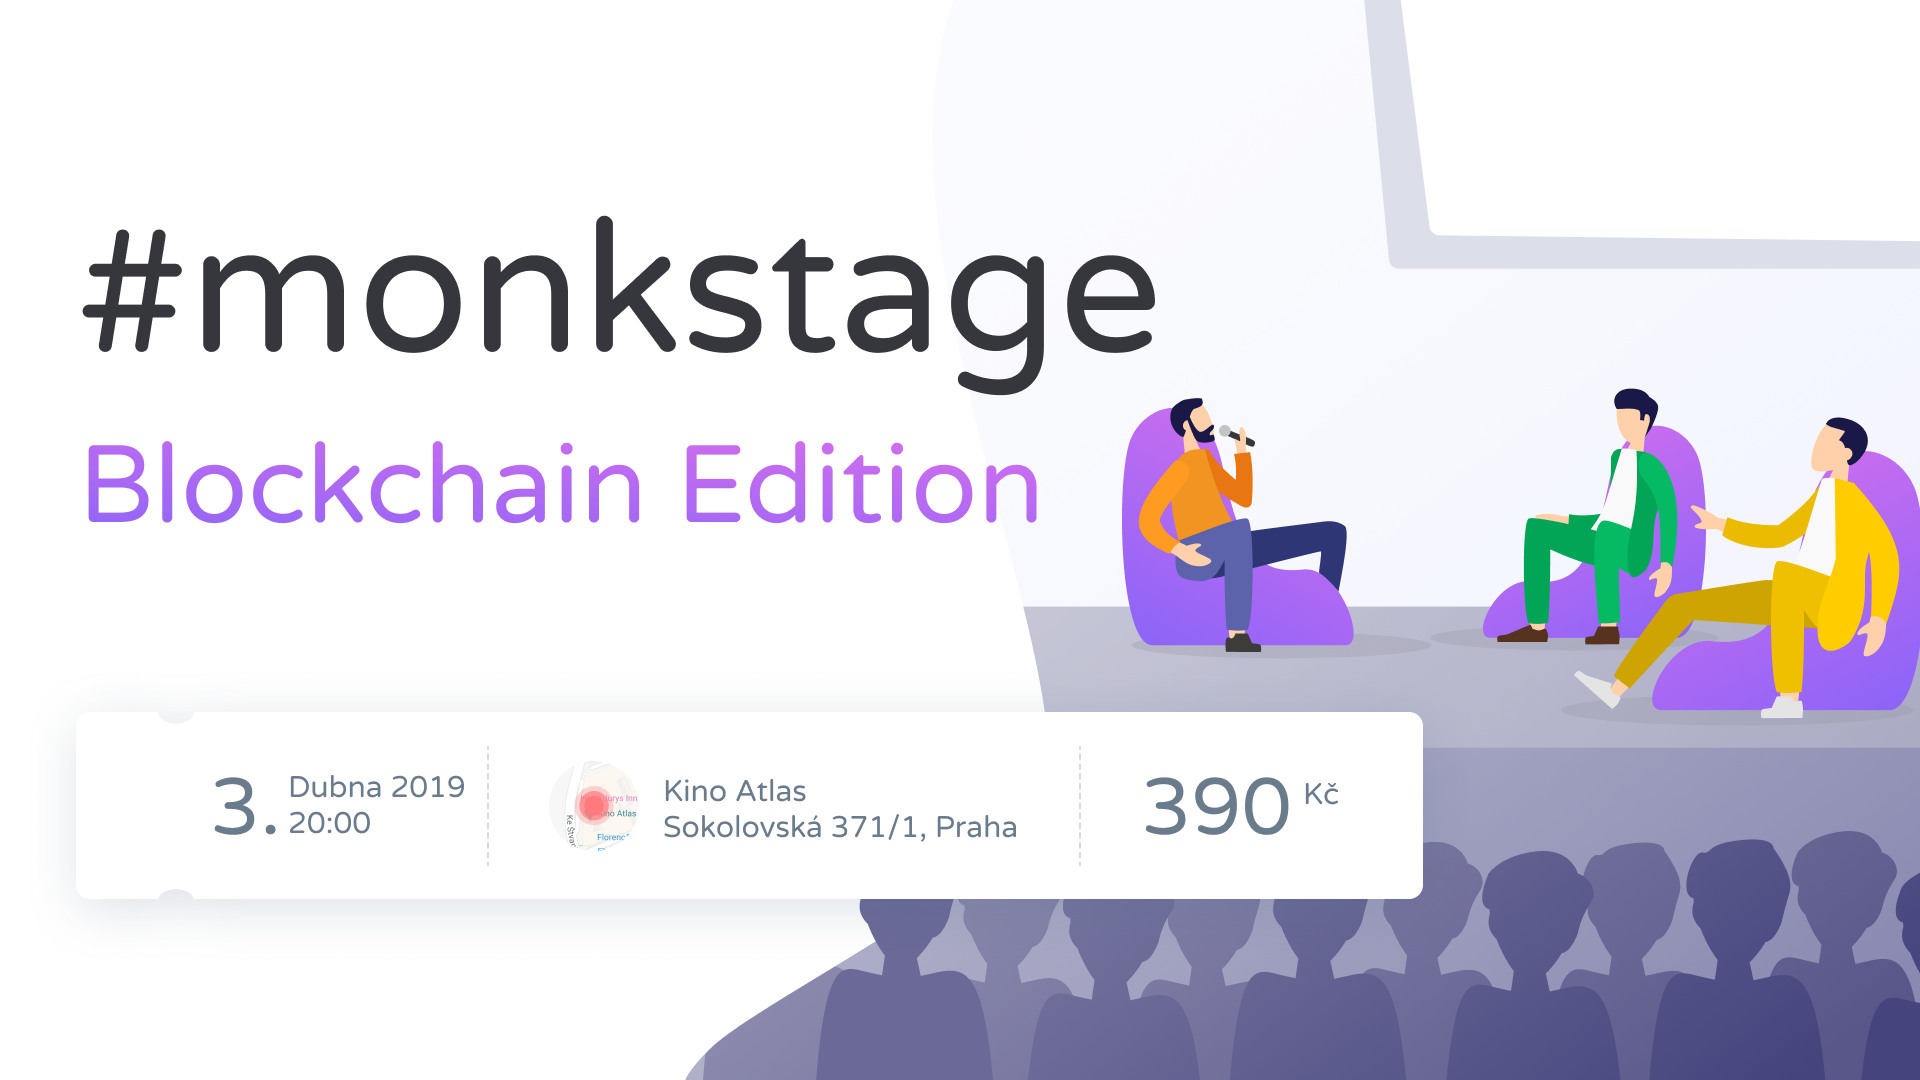
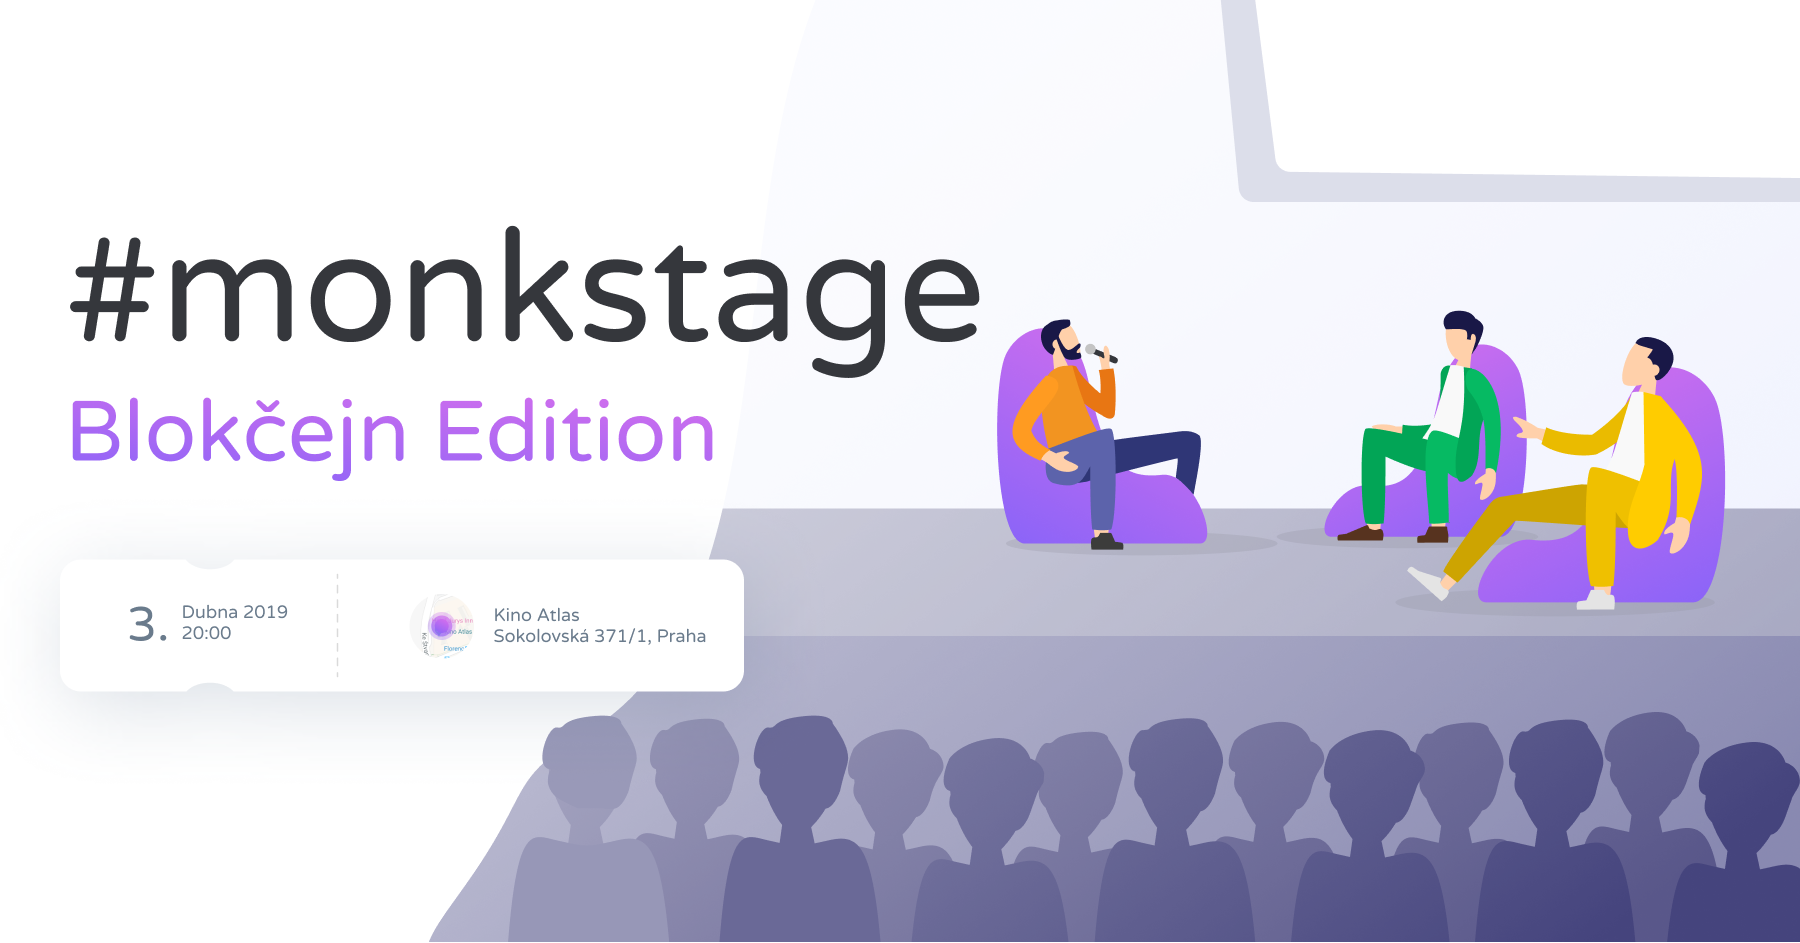
Text updates to hack facebook blockchain / krypto ad banning

diff --git a/monkstage.topmonks.com/src/html/index.html b/monkstage.topmonks.com/src/html/index.html
@@ -2,7 +2,7 @@
 {% from 'macros/helpers.html' import speakerImage %}
 
 {% block title %}
-#monkstage Blockchain Edition | TopMonks
+#monkstage Blokčejn Edition | TopMonks
 {% endblock %}
 
 {% block head %}
@@ -11,7 +11,7 @@
 <link rel="canonical" href="https://monkstage.topmonks.com/">
 <meta name="twitter:card" content="summary_large_image">
 <meta name="twitter:site" content="@topmonks">
-<meta name="twitter:title" property="og:title" content="#monkstage Blockchain Edition | TopMonks">
+<meta name="twitter:title" property="og:title" content="#monkstage Blokčejn Edition | TopMonks">
 <meta name="twitter:image" property="og:image" content="https://monkstage.topmonks.com/og-image.png">
 <meta property="og:type" content="event">
 <meta property="og:url" content="https://monkstage.topmonks.com/">
@@ -23,10 +23,10 @@
   <div class="mdc-layout-grid tm-layout-wrapper">
     <div class="mdc-layout-grid__inner">
       <div class="mdc-layout-grid__cell mdc-layout-grid__cell--span-12">
-        <h1>#monkstage <span class="tm-text__h1-subtitle">Blockchain Edition</span></h1>
+        <h1>#monkstage <span class="tm-text__h1-subtitle">Blokčejn Edition</span></h1>
       </div>
       <div class="mdc-layout-grid__cell mdc-layout-grid__cell--span-6-desktop mdc-layout-grid__cell--span-8-tablet mdc-layout-grid__cell--span-4-phone">
-        <p>Odvětví kryptoaktiv vzniklo teprve před deseti lety. Od té doby jsme v tomto oboru opakovaně zažili vlnu nadšení a deprese. Pod nánosem mýtů o splasklé bublině kolem kryptoměn roste nový ekosystém, který má své dominantní hráče, hrající dlouhodobou hru. Na <a href="https://www.eventbrite.com/e/monkstage-blockchain-edition-tickets-56054420280?aff=webtext">#monkstage</a> uvítáme hned tři zakladatele úspěšných českých startupů z tohoto odvětví.</p>
+        <p>Odvětví krytpoaktiv vzniklo teprve před deseti lety. Od té doby jsme v tomto oboru opakovaně zažili vlnu nadšení a deprese. Pod nánosem mýtů o splasklé bublině kolem krytpoměn roste nový ekosystém, který má své dominantní hráče, hrající dlouhodobou hru. Na <a href="http://bit.ly/blokcejn-edition">#monkstage</a> uvítáme hned tři zakladatele úspěšných českých startupů z tohoto odvětví.</p>
       </div>
     </div>
     <div class="mdc-layout-grid__inner tm-speakers">
@@ -54,7 +54,7 @@
           <div>
             Radim Kozub
             <span class="tm-text--subtext tm-layout--display-block">
-                Blockchain Legal
+                Blokčejn Legal
               </span>
           </div>
         </div>
@@ -73,7 +73,7 @@
             <div class="tm-strip__info">
               <span class="tm-strip__info_figure">390</span>
               <span class="tm-layout--flex-align-start tm-layout--margin-right">Kč</span>
-              <a href="https://www.eventbrite.com/e/monkstage-blockchain-edition-tickets-56054420280?aff=webheader"
+              <a href="http://bit.ly/blokcejn-edition"
                  class="tm-btn tm-btn--inverse ga-track"
                  data-label="Header">koupit vstupenky</a>
             </div>
@@ -249,7 +249,7 @@
           <div class="tm-strip__info">
             <span class="tm-strip__info_figure">390</span>
             <span class="tm-layout--flex-align-start tm-layout--margin-right">Kč</span>
-            <a href="https://www.eventbrite.com/e/monkstage-blockchain-edition-tickets-56054420280?aff=webfooter"
+            <a href="http://bit.ly/blokcejn-edition"
                class="tm-btn tm-btn--inverse ga-track"
                data-label="Footer">koupit vstupenky</a>
           </div>

diff --git a/monkstage.topmonks.com/src/html/shared/footer.html b/monkstage.topmonks.com/src/html/shared/footer.html
@@ -31,8 +31,8 @@
       </div>
       <div class="mdc-layout-grid__cell mdc-layout-grid__cell--span-6-desktop mdc-layout-grid__cell--span-8-tablet mdc-layout-grid__cell--span-4-phone">
         <h3>O nás</h3>
-        <p><a href="https://www.topmonks.cz/" title="web TopMonks">TopMonks</a> je český softwarehouse založený v roce 2011, zkušený s dodáváním komplexních řešení nejen B2B klientům, ale i startupům. Začátkem roku 2018 toto portfolio doplnila nová část firmy, celá dedikovaná technologii blockchain a kryptoaktivům.</p>
-        <p><a href="https://blockchain.topmonks.com/" title="web TopMonks Blockchain">TopMonks Blockchain</a> zastřešuje širokou paletu služeb na míru, od designu a vývoje aplikací, přes bezpečnostní audity, až po konzultace a případové studie použití blockchainu v businessu.</p>
+        <p><a href="https://www.topmonks.cz/" title="web TopMonks">TopMonks</a> je český softwarehouse založený v roce 2011, zkušený s dodáváním komplexních řešení nejen B2B klientům, ale i startupům. Začátkem roku 2018 toto portfolio doplnila nová část firmy, celá dedikovaná technologii blokčejn a krytpoaktivům.</p>
+        <p><a href="https://bit.ly/2HhxFmN" title="web TopMonks Blokčejn">TopMonks Blokčejn</a> zastřešuje širokou paletu služeb na míru, od designu a vývoje aplikací, přes bezpečnostní audity, až po konzultace a případové studie použití blokčejnu v businessu.</p>
       </div>
       <div id="kontakty" class="mdc-layout-grid__cell mdc-layout-grid__cell--span-6-desktop mdc-layout-grid__cell--span-8-tablet mdc-layout-grid__cell--span-4-phone">
         <h3>Důležité kontakty</h3>

diff --git a/monkstage.topmonks.com/src/html/shared/header.html b/monkstage.topmonks.com/src/html/shared/header.html
@@ -48,7 +48,7 @@
             <li><a href="#kontakty">kontakty</a></li>
             <li>
               <a class="tm-btn ga-track"
-                 href="https://www.eventbrite.com/e/monkstage-blockchain-edition-tickets-56054420280?aff=webmenu"
+                 href="http://bit.ly/blokcejn-edition"
                  data-label="Menu">koupit vstupenky</a>
             </li>
           </ul>
